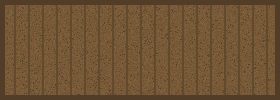
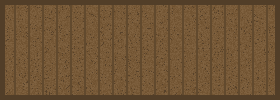
🌿 THE LAWN COMES ALIVE + you stop IN FRONT of the fence
Trym's field report, three fixes in one plate rebuild:

1. FENCE STOP — approaching from the road you stopped at the collider's
   inner edge, feet parked ON the pickets. The south band now reaches
   past the fence base (786→820, base 816), so the walk halts in front
   of the fence — where the painter's order also draws you in front.

2. THE LIFE PASS — the homestead lawn was flat base tiles only; the
   park's full recipe is now ported: retinted graveyard grass tufts
   (220), green Props_Grass patches (45 — verdict corrected: 1/2/3/8/9
   are the park's own clean greens; 12/13 were the banned orange ones),
   lifted flower-pixel clusters (22), and the warm afternoon grade
   (greens lifted toward 128,186,96).

3. THE ROAD — the flat dithered band became the park/beach road
   pipeline: arc-length wobble, west-end taper into the woods, ragged
   rim edges. The gate turn-in flows THROUGH the opening and peters
   out on the lawn ("a hard cut, no fading" — Trym's screenshot).

Verified in-pane: walk from road into fence stops at y≥821 (band is
data in FENCE_TIERS, all three tiers), road/turn-in/lawn read organic
at both zooms.

diff --git a/src/scripts/homestead-geo.js b/src/scripts/homestead-geo.js
@@ -8,7 +8,7 @@ export const EXIT_EAST = { x: 1760, y: 900, r: 60 };
 export const FENCE = [336, 240, 1344, 816];
 export const PLOT = [384, 302, 1296, 768];
 // 🌱 land grows with the ladder: stage 0-1 → tier 1, 2 → 2, 3 → 3
-export const FENCE_TIERS = {"1": {"fence": [816, 432, 1344, 816], "plot": [864, 494, 1296, 768], "cols": [[816, 450, 1344, 464], [816, 786, 1104, 812], [1200, 786, 1344, 812], [818, 450, 836, 786], [1320, 450, 1340, 786]], "yard": ["ov-fyard1.png", 816, 432, 528, 336, 464], "south": ["ov-fsouth1.png", 816, 764, 528, 56, 816]}, "2": {"fence": [576, 336, 1344, 816], "plot": [624, 398, 1296, 768], "cols": [[576, 354, 1344, 368], [576, 786, 1104, 812], [1200, 786, 1344, 812], [578, 354, 596, 786], [1320, 354, 1340, 786]], "yard": ["ov-fyard2.png", 576, 336, 768, 432, 368], "south": ["ov-fsouth2.png", 576, 764, 768, 56, 816]}, "3": {"fence": [336, 240, 1344, 816], "plot": [384, 302, 1296, 768], "cols": [[336, 258, 1344, 272], [336, 786, 1104, 812], [1200, 786, 1344, 812], [338, 258, 356, 786], [1320, 258, 1340, 786]], "yard": ["ov-fyard3.png", 336, 240, 1008, 528, 272], "south": ["ov-fsouth3.png", 336, 764, 1008, 56, 816]}};
+export const FENCE_TIERS = {"1": {"fence": [816, 432, 1344, 816], "plot": [864, 494, 1296, 768], "cols": [[816, 450, 1344, 464], [816, 786, 1104, 820], [1200, 786, 1344, 820], [818, 450, 836, 786], [1320, 450, 1340, 786]], "yard": ["ov-fyard1.png", 816, 432, 528, 336, 464], "south": ["ov-fsouth1.png", 816, 764, 528, 56, 816]}, "2": {"fence": [576, 336, 1344, 816], "plot": [624, 398, 1296, 768], "cols": [[576, 354, 1344, 368], [576, 786, 1104, 820], [1200, 786, 1344, 820], [578, 354, 596, 786], [1320, 354, 1340, 786]], "yard": ["ov-fyard2.png", 576, 336, 768, 432, 368], "south": ["ov-fsouth2.png", 576, 764, 768, 56, 816]}, "3": {"fence": [336, 240, 1344, 816], "plot": [384, 302, 1296, 768], "cols": [[336, 258, 1344, 272], [336, 786, 1104, 820], [1200, 786, 1344, 820], [338, 258, 356, 786], [1320, 258, 1340, 786]], "yard": ["ov-fyard3.png", 336, 240, 1008, 528, 272], "south": ["ov-fsouth3.png", 336, 764, 1008, 56, 816]}};
 export const BED = { w: 280, h: 100, def: { x: 1010, y: 730 }, slots: [[-90, -32], [-20, -32], [50, -32], [120, -32]] };
 export const TENT = { x: 1000, y: 560, w: 140, h: 136, solid: [-62, -20, 62, 4] };
 export const STRUCT_STYLES = {1: ["tent1", "tent2", "tent3", "tent4", "tent5", "tent6"], 2: ["mob1", "mob2", "mob3", "mob4", "mob5", "mob6", "mob7", "mob8", "mobm1", "mobm2", "mobm3", "mobm4", "mobm5", "mobm6", "mobm7", "mobm8", "barn", "hloftgreen", "hloftgrey", "hloftred", "hloftyellow"], 3: ["country", "haunted", "japanese", "villa1", "villa2", "villa3", "villa4", "villa5", "condoa", "condo6", "condo9"]};

diff --git a/tools/build-homestead-scene.py b/tools/build-homestead-scene.py
@@ -21,6 +21,7 @@ Outputs:
   src/data/decor.js                       the decor manifest (generated)
 Run: python tools/build-homestead-scene.py
 """
+import math
 import os
 import random
 import sys
@@ -157,23 +158,134 @@ for x in range(0, W):
         if g > r and g > b:                  # grass pixels only
             px[x, y] = (r, min(255, g + 3), b, a)
 
-# ---- the bottom road: full width, dying into the woods at the west end ----
-for y in range(ROAD_Y - ROAD_HW, ROAD_Y + ROAD_HW):
-    for x in range(120, W):
-        hw = ROAD_HW if x > 340 else max(4, ROAD_HW * (x - 120) / 220.0)
-        d = abs(y - ROAD_Y) / float(hw)
-        if d > 1.0:
+# ---- 🌿 THE LIFE PASS (the park's recipe, Trym: "no variation… very basic")
+# tufts + green patches + lifted flower pixels, all OFF the tile grid so
+# nothing reads as a pattern. ⚠ Props_Grass verdict corrected: 1/2/3/8/9 are
+# the clean GREEN patches the park itself scatters — 12/13 were the orange
+# baked-background ones that got the family banned here.
+grng = random.Random(7)
+if HAVE_PACK:
+    TUFT = None
+    try:
+        TUFT = load_pack('ME_Singles_Graveyard_48x48_Grass_Tufts.png').convert('RGBA')
+        tp = TUFT.load()          # graveyard tufts are dead-grey — retint by luma
+        for y in range(TUFT.height):
+            for x in range(TUFT.width):
+                r0, g0, b0, a0 = tp[x, y]
+                if a0:
+                    k = (0.3 * r0 + 0.6 * g0 + 0.1 * b0) / 120.0
+                    tp[x, y] = (int(min(255, 62 * k)), int(min(255, 128 * k)),
+                                int(min(255, 56 * k)), a0)
+    except Exception:
+        pass
+    PATCHES = []
+    for i in (1, 2, 3, 8, 9):
+        try:
+            PATCHES.append(load_pack('ME_Singles_Terrains_and_Fences_48x48_Props_Grass_%d.png' % i).convert('RGBA'))
+        except Exception:
+            pass
+    for _ in range(45):
+        if not PATCHES:
+            break
+        im.alpha_composite(PATCHES[grng.randrange(len(PATCHES))],
+                           (grng.randrange(20, W - 60), grng.randrange(20, H - 60)))
+    if TUFT:
+        for _ in range(220):
+            t2 = TUFT.transpose(Image.FLIP_LEFT_RIGHT) if grng.random() < 0.5 else TUFT
+            im.alpha_composite(t2, (grng.randrange(10, W - 58), grng.randrange(10, H - 58)))
+    FLOWER_STAMPS = []
+    for i in range(1, 16):
+        try:
+            t = load_pack('ME_Singles_Terrains_and_Fences_48x48_Grass_Wall_1_Flowered_%d.png' % i).convert('RGBA')
+        except Exception:
             continue
-        if d > 0.82 and rng.random() < (d - 0.82) * 5:
+        p = t.load()
+        st = [(x, y, p[x, y]) for y in range(t.height) for x in range(t.width)
+              if p[x, y][3] and sum(p[x, y][:3]) > 330
+              and not (p[x, y][1] > p[x, y][0] and p[x, y][1] > p[x, y][2])]
+        if 6 < len(st) < 260:
+            FLOWER_STAMPS.append(st)
+    for _ in range(22):
+        if not FLOWER_STAMPS:
+            break
+        ox, oy = grng.randrange(60, W - 100), grng.randrange(60, H - 100)
+        for x, y, col in FLOWER_STAMPS[grng.randrange(len(FLOWER_STAMPS))]:
+            put(ox + x, oy + y, col)
+
+# the park's soft afternoon grade — greens lifted warm
+GRASS_TARGET = (128, 186, 96)
+for y in range(H):
+    for x in range(W):
+        r, g, b, a = px[x, y]
+        if g > r - 10 and g > b:
+            k = 0.30
+            px[x, y] = (int(r * 0.7 + GRASS_TARGET[0] * k), int(g * 0.7 + GRASS_TARGET[1] * k),
+                        int(b * 0.7 + GRASS_TARGET[2] * k), a)
+
+# ---- 🛣 the bottom road: the park's wobble/taper/rim bake, not a flat band --
+ROAD_C, ROAD_S, ROAD_RIM = (208, 178, 128), (196, 166, 116), (122, 108, 62)
+_rrng = random.Random(4242)
+_road_mask = bytearray(W * H)
+
+
+def road_pts(pts, hw, taper=(True, True)):
+    out, s = [], 0.0
+    for i in range(len(pts) - 1):
+        (x0, y0), (x1, y1) = pts[i], pts[i + 1]
+        seg = math.hypot(x1 - x0, y1 - y0)
+        if seg < 1:
             continue
-        put(x, y, (172, 142, 96) if (x * 3 + y * 7) % 9 else (152, 124, 82))
-# the turn-in: a short path from the road up through the gate
-for y in range(FENCE_PX[3] - 8, ROAD_Y - ROAD_HW + 12):
-    for x in range(GATE_X - 34, GATE_X + 34):
-        d = abs(x - GATE_X) / 34.0
-        if d > 0.82 and rng.random() < (d - 0.82) * 5:
+        nx, ny = (x1 - x0) / seg, (y1 - y0) / seg
+        px_, py_ = -ny, nx
+        for t in range(int(seg)):
+            wob = 7.5 * math.sin(s / 88.0) + 2.4 * math.sin(s / 21.0)
+            out.append([int(x0 + nx * t + px_ * wob), int(y0 + ny * t + py_ * wob),
+                        px_, py_, hw])
+            s += 1
+    n = len(out)
+    for i in range(min(44, n // 2)):
+        k = 0.30 + 0.70 * (i / 44.0)
+        if taper[0]:
+            out[i][4] = max(4, hw * k)
+        if taper[1]:
+            out[n - 1 - i][4] = max(4, hw * k)
+    return [tuple(p) for p in out]
+
+
+def road_mask_add(spine):
+    m = _road_mask
+    for (cx_, cy_, _, _, hw) in spine:
+        r = int(hw) + 2
+        for dy in range(-r, r + 1):
+            y = cy_ + dy
+            if not (0 <= y < H):
+                continue
+            row = y * W
+            for dx in range(-r, r + 1):
+                x = cx_ + dx
+                if not (0 <= x < W):
+                    continue
+                v = int(hw + 2 - math.hypot(dx, dy))
+                if v > 0 and v > m[row + x]:
+                    m[row + x] = 255 if v > 255 else v
+
+
+road_mask_add(road_pts([(120, ROAD_Y), (620, ROAD_Y - 8), (1150, ROAD_Y + 6), (1800, ROAD_Y - 4)],
+                       36, taper=(True, False)))                  # W dies in the woods, E = the park
+# the turn-in flows THROUGH the gate opening and feathers out on the lawn —
+# a blunt full-width end read as "a hard cut, no fading" (Trym's screenshot)
+road_mask_add(road_pts([(GATE_X, FENCE_PX[3] - 70), (GATE_X - 5, (FENCE_PX[3] + ROAD_Y) // 2), (GATE_X, ROAD_Y)],
+                       20, taper=(True, False)))
+for y in range(H):
+    row = y * W
+    for x in range(W):
+        v = _road_mask[row + x]
+        if not v:
             continue
-        put(x, y, (172, 142, 96) if (x * 3 + y * 7) % 9 else (152, 124, 82))
+        if v >= 5:
+            put(x, y, ROAD_S if _rrng.random() < 0.20 else ROAD_C)
+        elif _rrng.random() < 0.18 * v:
+            put(x, y, ROAD_RIM)
 
 # ---- the fence: Fence_1 autotiles, classified by edge connectivity --------
 COLLIDERS = []                   # (shape) rects in world px
@@ -254,10 +366,13 @@ def lay_fence_tier(kit, tier):
     cy0, cy1 = fy0 * T + mid, fy1 * T + mid
     cols = [
         (fx0 * T, cy0, (fx1 + 1) * T, cy0 + 14),                   # north
-        # ⚠ the south band is DEEPER (26px): a banana at the pickets' feet
-        # stood visually ON them (Trym's screenshot)
-        (fx0 * T, cy1, GATE_COLS[0] * T, cy1 + 26),                # south L of gate
-        ((GATE_COLS[-1] + 1) * T, cy1, (fx1 + 1) * T, cy1 + 26),   # south R of gate
+        # ⚠ the south band reaches BELOW the fence base (Trym ×2): stopping at
+        # the band's inner edge parked the banana's feet ON the pickets when
+        # approaching from the road — the outside stop line must sit past the
+        # art (feet ≥ base+4) so the walker halts IN FRONT of the fence, where
+        # the painter's order also draws it in front.
+        (fx0 * T, cy1, GATE_COLS[0] * T, cy1 + 34),                # south L of gate
+        ((GATE_COLS[-1] + 1) * T, cy1, (fx1 + 1) * T, cy1 + 34),   # south R of gate
         (fx0 * T + 2, cy0, fx0 * T + 20, cy1),                     # west posts
         (fx1 * T + 24, cy0, fx1 * T + 44, cy1),                    # east posts
     ]
